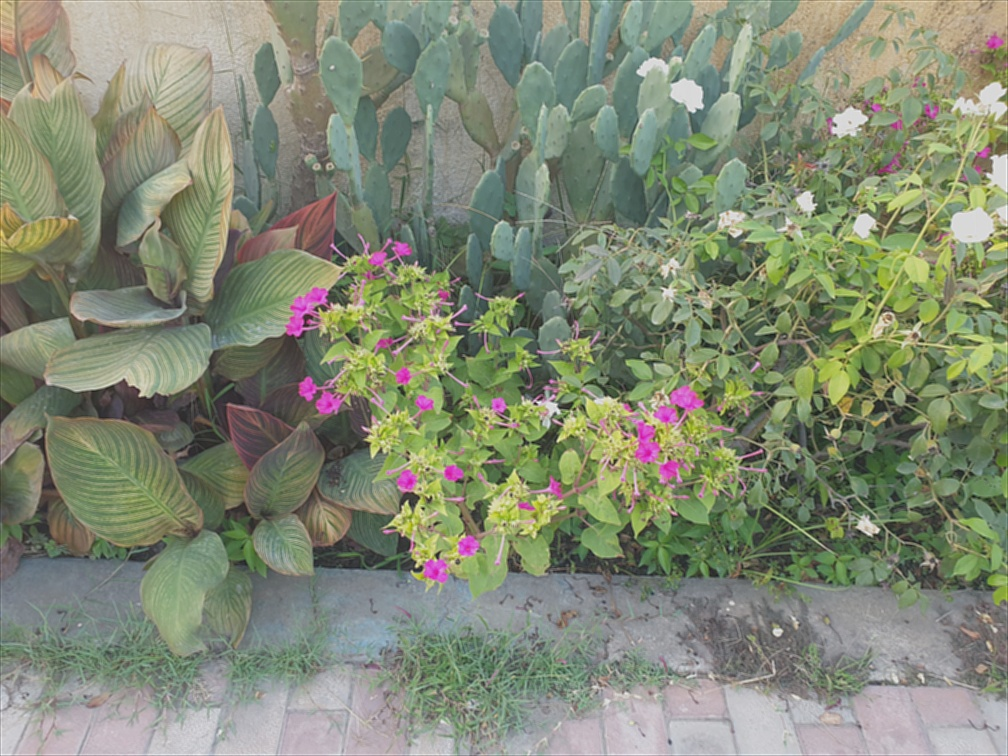
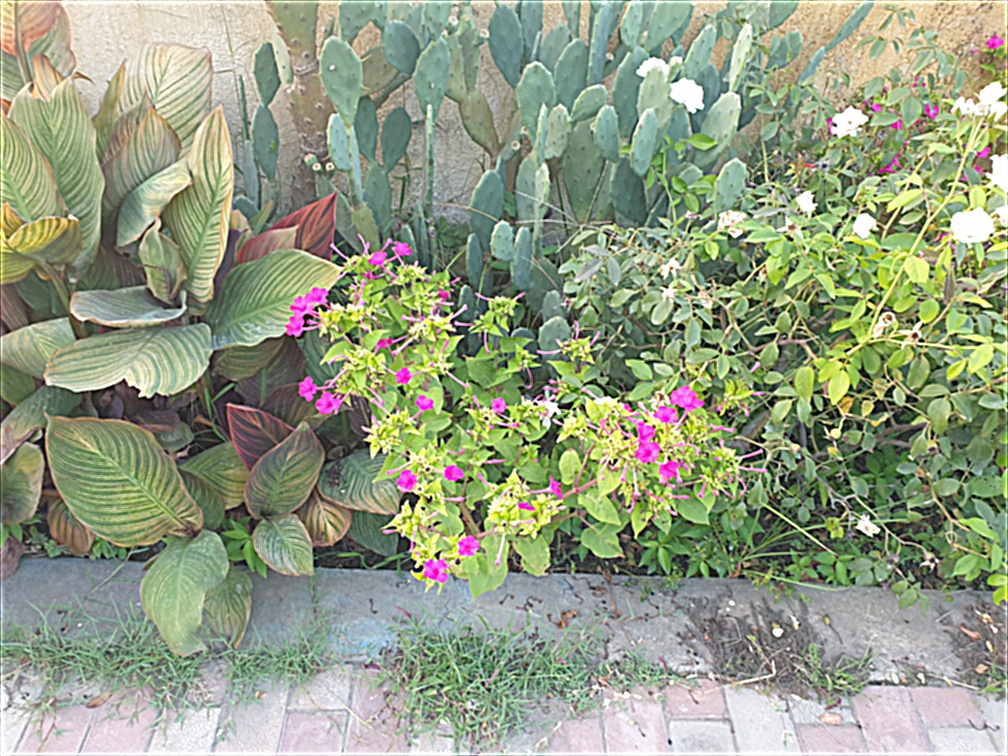
q1 final version - mode C added to scaleIntensities

diff --git a/HW2/q1.py b/HW2/q1.py
@@ -5,13 +5,13 @@ import utils as utl
 import time
 
 img = cv2.imread('./flowers.blur.png', cv2.IMREAD_COLOR)
-"""
+
 ## Part a)
-sigma = 1
-gauss_kernel = utl.calGaussFilter((3, 3), sigma, True)
+sigma = 2
+gauss_kernel = utl.calGaussFilter((6*sigma+1, 6*sigma+1), sigma, True)
 
 gauss_kernal_repr = cv2.resize(gauss_kernel, (500, 500))
-gauss_kernal_repr = utl.scaleIntensities(gauss_kernal_repr)
+gauss_kernal_repr = utl.scaleIntensities(gauss_kernal_repr, 'M')
 cv2.imwrite('res01.jpg', gauss_kernal_repr)
 
 # smooth image
@@ -21,14 +21,13 @@ cv2.imwrite('res02.jpg', img_smoothed_repr)
 
 unsharp_mask = img.astype(np.float64) - img_smoothed.astype(np.float64) # unsharp mask
 
-
 unsharp_mask_repr = utl.scaleIntensities(unsharp_mask, 'M')
 cv2.imwrite('res03.jpg', unsharp_mask_repr)
 
 alpha = 2
 img_sharpend = img.astype(float) + alpha * unsharp_mask.astype(float)
 
-img_sharpend = utl.scaleIntensities(img_sharpend, 'M')
+img_sharpend = utl.scaleIntensities(img_sharpend, 'C')
 cv2.imwrite('res04.jpg', img_sharpend)
 
 ## Part b)
@@ -45,11 +44,10 @@ unsharp_mask = cv2.filter2D(img.astype(float), -1, laplacian_gauss, borderType=c
 unsharp_mask_repr = utl.scaleIntensities(unsharp_mask, 'M')
 cv2.imwrite('res06.jpg', unsharp_mask.astype(np.uint8))
 
-k = 1.2
+k = 4.5
 img_sharpend = img.astype(float) - k * (unsharp_mask.astype(float))
-img_sharpend = utl.scaleIntensities(img_sharpend, 'M')
+img_sharpend = utl.scaleIntensities(img_sharpend, 'C')
 cv2.imwrite('res07.jpg', img_sharpend)
-
 
 
 ## Part c)
@@ -61,7 +59,7 @@ cv2.imwrite('res08.jpg', fft_amp_repr)
 # low pass filter in frequency domain
 M, N,_ = img_fft.shape
 
-sigma = 40
+sigma = 17
 lowpass_filter = utl.calGaussFilter((M, N), sigma, False)
 
 # high pass filter:
@@ -69,23 +67,23 @@ H = 1 - lowpass_filter
 H_repr = utl.scaleIntensities(np.abs(H))
 cv2.imwrite('res09.jpg', H_repr)
 
-k = 0.8
+k = 1
 filter = 1 + k * H
-filter_ext = np.stack([filter, filter, filter], axis=2)
+filter_ext = np.stack([filter for _ in range(3)], axis=2)
 img_filtered_freq = filter_ext * img_fft
 
-img_filtered_freq_repr = utl.scaleIntensities(np.log(np.abs(img_filtered_freq)))
+
+img_filtered_freq_repr = utl.scaleIntensities(np.log(np.abs(img_filtered_freq)), 'Z')
 
 cv2.imwrite('res10.jpg', img_filtered_freq_repr)
 
 img_filtered = utl.calImgIFFT(img_filtered_freq)
-img_filtered = utl.scaleIntensities(np.abs(img_filtered))
+img_filtered = utl.scaleIntensities(np.real(img_filtered), 'C')
 
 cv2.imwrite('res11.jpg', img_filtered)
-"""
-## Part d)
 
-time_origin = time.process_time()
+
+## Part d)
 img_fft = utl.calImgFFT(img)
 M, N, _ = img_fft.shape
 
@@ -96,25 +94,19 @@ v_matrix = utl.repeatRow(v_row, M)
 u_matrix = utl.repeatCol(u_col, N)
 
 lap_mat = 4 * (np.pi ** 2) * (v_matrix ** 2 + u_matrix ** 2)
-lap_mat_ext = np.stack([lap_mat, lap_mat, lap_mat], axis=2).astype(img_fft.dtype)
+lap_mat_ext = np.stack([lap_mat for _ in range(3)], axis=2).astype(img_fft.dtype)
 int_mat = lap_mat_ext * img_fft
 int_mat_repr = np.copy(int_mat)
 
-int_mat_repr = utl.scaleIntensities(np.real(int_mat), 'M')
-# cv2.imwrite('res12.jpg', int_mat_repr.astype(np.uint8))
+int_mat_repr = utl.scaleIntensities(np.abs(int_mat), 'M')
+cv2.imwrite('res12.jpg', int_mat_repr.astype(np.uint8))
 
-mask_img = np.real(utl.calImgIFFT(int_mat))
-mask_img[mask_img > 255] = 255
-mask_img[mask_img < 0] = 0
-# mask_img_repr = utl.scaleIntensities(np.real(mask_img), 'M')
-# print(mask_img_repr[0, 0])
-# cv2.imwrite('res13.jpg', mask_img.astype(np.uint8))
+mask_img = utl.calImgIFFT(int_mat)
+mask_img_repr = utl.scaleIntensities(np.real(mask_img), 'C')
+cv2.imwrite('res13.jpg', mask_img_repr.astype(np.uint8))
 
-# k = 8*10**(-7)
-k = 3 * 10 **(-6)
+k = 5 * 10 **(-6)
 sharpened_freq = img_fft + k * int_mat
 sharpened_img = utl.calImgIFFT(sharpened_freq)
-# sharpened_img = utl.scaleIntensities(np.abs(sharpened_img), 'M')
-# cv2.imwrite('res14.jpg', np.int64(np.real(sharpened_img)))
-time_length = time.process_time() - time_origin
-print(time_length)
+sharpened_img = utl.scaleIntensities(np.real(sharpened_img), 'C')
+cv2.imwrite('res14.jpg', sharpened_img)

diff --git a/HW2/utils.py b/HW2/utils.py
@@ -45,12 +45,17 @@ def scaleIntensities(img, mode='Z'):
     ## modes:
     #   1) Z: scales negatives to zero (default)
     #   2) M: adds -min(img) to image
+    #   3) C: cut intensities greater than 255 and less than 0
     img_scaled = np.copy(img) 
     if mode == 'Z':
         img_scaled[img < 0] = 0
     elif mode == 'M':
         if np.amin(img) < 0:
             img_scaled = img + (-np.amin(img))
+    elif mode == 'C':
+        img_scaled[img_scaled > 255] = 255
+        img_scaled[img_scaled < 0] = 0
+        return img_scaled.astype(np.uint8)
     else:
         raise ValueError("Unknown mode!")
     if np.amax(img_scaled):
